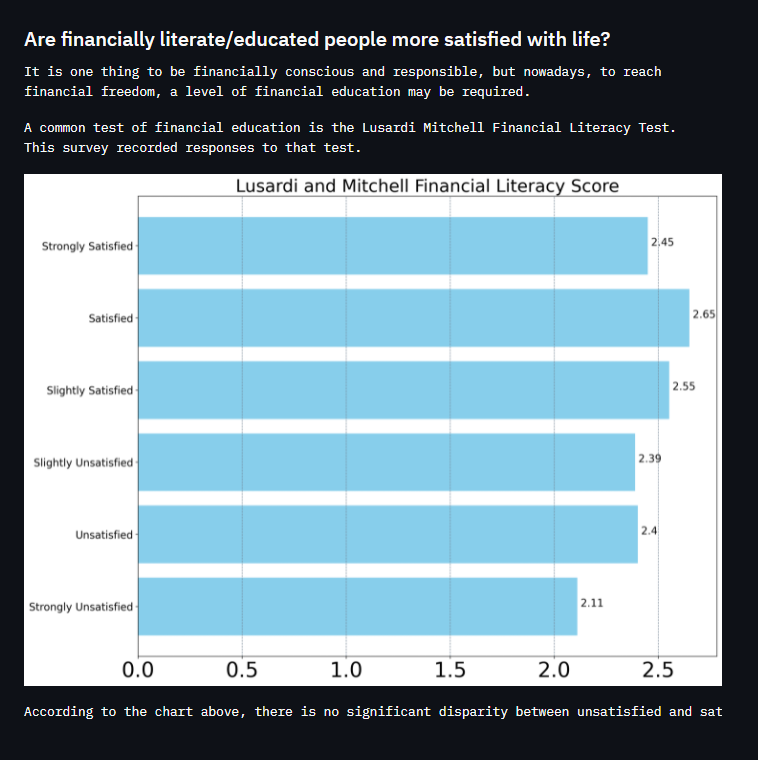
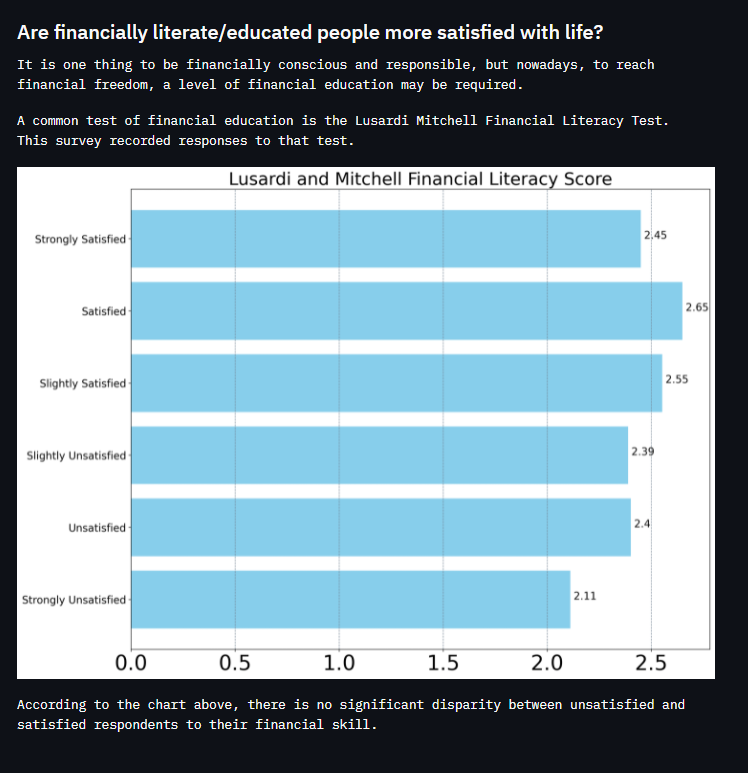
correcting grammar mistakes and changing image

diff --git a/app.py b/app.py
@@ -136,4 +136,4 @@ for i, j in enumerate(lm_scores):
 plt.show()
 st.pyplot(fig3)
 
-st.text("According to the chart above, there is no significant disparity between unsatisfied and satisfied respondents to their financial skill.")
+st.text("According to the chart above, there is no significant disparity between unsatisfied and \nsatisfied respondents to their financial skill.")
